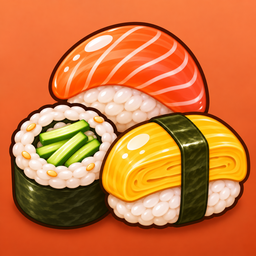
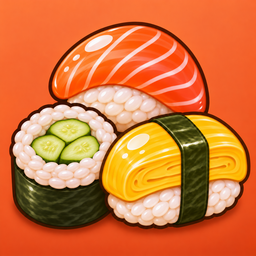
[Site] Page Sushi Trio FR/EN, presskit, Open Graph, bannière App Store

diff --git a/presskit.html b/presskit.html
@@ -1,0 +1,38 @@
+<!doctype html><html lang="fr"><head><meta charset="utf-8"><meta name="viewport" content="width=device-width,initial-scale=1">
+<title>Presskit — Sushi Trio | CODEZILLA</title>
+<meta name="description" content="Presskit de Sushi Trio (CODEZILLA) : fiche, descriptions, captures, icône et logo à télécharger, contact presse.">
+<link rel="canonical" href="https://codezillagames.com/presskit.html">
+<link rel="alternate" hreflang="fr" href="https://codezillagames.com/presskit.html">
+<link rel="alternate" hreflang="en" href="https://codezillagames.com/en/presskit.html">
+<link rel="alternate" hreflang="x-default" href="https://codezillagames.com/en/presskit.html">
+<meta property="og:type" content="website"><meta property="og:site_name" content="CODEZILLA"><meta property="og:url" content="https://codezillagames.com/presskit.html"><meta property="og:title" content="Presskit — Sushi Trio"><meta property="og:description" content="Presskit de Sushi Trio (CODEZILLA) : fiche, descriptions, captures, icône et logo à télécharger, contact presse.">
+<meta property="og:image" content="https://codezillagames.com/img/og-sushi-trio.jpg"><meta property="og:image:width" content="1200"><meta property="og:image:height" content="630">
+<meta name="twitter:card" content="summary_large_image"><meta name="twitter:title" content="Presskit — Sushi Trio"><meta name="twitter:description" content="Presskit de Sushi Trio (CODEZILLA) : fiche, descriptions, captures, icône et logo à télécharger, contact presse."><meta name="twitter:image" content="https://codezillagames.com/img/og-sushi-trio.jpg">
+<link rel="icon" href="img/sushi-trio-icone.png"><link rel="stylesheet" href="style.css"></head><body>
+<header><a class="brand" href="index.html">CODEZILLA</a><nav><a href="index.html">Accueil</a><a href="support.html">Support</a><a href="confidentialite.html">Confidentialité</a><a href="mentions-legales.html">Mentions légales</a></nav></header>
+<main>
+<p class="langs"><a href="en/presskit.html" hreflang="en" lang="en">English</a></p>
+<section class="card"><h1>Presskit — Sushi Trio</h1><h2>Fiche</h2><table class="facts"><tr><th>Jeu</th><td>Sushi Trio (App Store : « Sushi Trio - Food Sort »)</td></tr><tr><th>Éditeur</th><td>CodeZilla (CODEZILLA), Paris, France</td></tr><tr><th>Sortie</th><td>iOS : 19 novembre 2026 · Android : bientôt</td></tr><tr><th>Prix</th><td>Gratuit, avec achats intégrés facultatifs et publicités</td></tr><tr><th>Plateformes</th><td>iOS (<a href="https://apps.apple.com/fr/app/sushi-trio-food-sort/id6835079924">App Store</a>) · Android (Google Play, bientôt)</td></tr><tr><th>Genre</th><td>Casse-tête de tri (triple match)</td></tr><tr><th>Langues</th><td>français, anglais</td></tr><tr><th>Âge</th><td>4+ (App Store)</td></tr><tr><th>Site</th><td><a href="sushi-trio.html">codezillagames.com/sushi-trio.html</a></td></tr></table></section>
+<section class="card"><h2>Description courte</h2><p>Un casse-tête gourmand et relaxant : touchez les aliments, remplissez les commandes et gardez de la place dans la réserve. Servez sushis, brochettes et douceurs japonaises par trois !</p><h2>Description longue</h2><pre class="desc">Bienvenue au comptoir de Sushi Trio ! Les commandes s'enchaînent : à vous de servir les bons aliments, au bon moment.
+
+COMMENT JOUER
+• Touchez un aliment pour le servir.
+• Chaque commande attend trois aliments identiques.
+• Un aliment sans commande patiente dans la réserve : gardez de la place !
+• Servez la rangée de devant pour découvrir celle de derrière.
+
+POURQUOI VOUS ALLEZ AIMER
+• Des parties courtes, faciles à prendre en main et de plus en plus corsées.
+• De nouvelles surprises au fil des niveaux : étagères qui bougent, verrous, plats qui tombent…
+• Des boosters pour vous sortir d'un mauvais pas : marteau, baguette, mélange et d'autres encore.
+• Des pièces à chaque victoire et une série de victoires qui offre des boosters.
+• Plus de 100 sushis, brochettes et douceurs japonaises illustrés, dans l'ambiance chaleureuse d'un petit restaurant japonais.
+• Aucun compte nécessaire : votre progression reste sur votre appareil.
+
+Sushi Trio est gratuit. Il contient des publicités et des achats intégrés facultatifs. L'achat qui retire les publicités supprime les bannières et les publicités entre les niveaux ; les vidéos récompensées restent proposées, à votre choix.</pre></section>
+<section class="card"><h2>Captures (iPhone, 1320 × 2868, JPEG)</h2><p>Cliquez sur une capture pour la télécharger en pleine définition.</p><h3>En français</h3><ul class="gallery six"><li><a href="presse/sushi-trio-fr-01-accueil.jpg" download><img src="img/sushi-trio/fr-01-accueil.webp" alt="Écran d'accueil" width="440" height="956" loading="lazy">Écran d'accueil</a></li><li><a href="presse/sushi-trio-fr-02-plateau.jpg" download><img src="img/sushi-trio/fr-02-plateau.webp" alt="Un niveau" width="440" height="956" loading="lazy">Un niveau</a></li><li><a href="presse/sushi-trio-fr-03-vapeur-etageres-mobiles.jpg" download><img src="img/sushi-trio/fr-03-vapeur-etageres-mobiles.webp" alt="Vapeur et étagères mobiles" width="440" height="956" loading="lazy">Vapeur et étagères mobiles</a></li><li><a href="presse/sushi-trio-fr-04-commande-combo.jpg" download><img src="img/sushi-trio/fr-04-commande-combo.webp" alt="Commande et combo" width="440" height="956" loading="lazy">Commande et combo</a></li><li><a href="presse/sushi-trio-fr-05-booster-aimant.jpg" download><img src="img/sushi-trio/fr-05-booster-aimant.webp" alt="Booster aimant" width="440" height="956" loading="lazy">Booster aimant</a></li><li><a href="presse/sushi-trio-fr-06-victoire.jpg" download><img src="img/sushi-trio/fr-06-victoire.webp" alt="Victoire" width="440" height="956" loading="lazy">Victoire</a></li></ul><h3>En anglais</h3><ul class="gallery six"><li><a href="presse/sushi-trio-en-01-accueil.jpg" download><img src="img/sushi-trio/en-01-accueil.webp" alt="Écran d'accueil" width="440" height="956" loading="lazy">Écran d'accueil</a></li><li><a href="presse/sushi-trio-en-02-plateau.jpg" download><img src="img/sushi-trio/en-02-plateau.webp" alt="Un niveau" width="440" height="956" loading="lazy">Un niveau</a></li><li><a href="presse/sushi-trio-en-03-vapeur-etageres-mobiles.jpg" download><img src="img/sushi-trio/en-03-vapeur-etageres-mobiles.webp" alt="Vapeur et étagères mobiles" width="440" height="956" loading="lazy">Vapeur et étagères mobiles</a></li><li><a href="presse/sushi-trio-en-04-commande-combo.jpg" download><img src="img/sushi-trio/en-04-commande-combo.webp" alt="Commande et combo" width="440" height="956" loading="lazy">Commande et combo</a></li><li><a href="presse/sushi-trio-en-05-booster-aimant.jpg" download><img src="img/sushi-trio/en-05-booster-aimant.webp" alt="Booster aimant" width="440" height="956" loading="lazy">Booster aimant</a></li><li><a href="presse/sushi-trio-en-06-victoire.jpg" download><img src="img/sushi-trio/en-06-victoire.webp" alt="Victoire" width="440" height="956" loading="lazy">Victoire</a></li></ul></section>
+<section class="card"><h2>Icône et logo</h2><div class="downloads"><a href="presse/sushi-trio-icone-1024.png" download><img src="img/sushi-trio-icone.png" alt="" width="96" height="96"></a><a href="presse/sushi-trio-icone-1024.png" download>Icône 1024 × 1024 (PNG)</a></div>
+<div class="downloads"><a href="presse/sushi-trio-logo.png" download><img src="img/sushi-trio-logo.png" alt="" width="240" height="130" style="border:0"></a><a href="presse/sushi-trio-logo.png" download>Logo 800 × 432 (PNG, fond transparent)</a></div></section>
+<section class="card"><h2>Contact presse</h2><p>Reinis Grinbergs, gérant — <a href="mailto:contact@codezillagames.com">contact@codezillagames.com</a>. Les visuels de cette page peuvent être utilisés pour parler de Sushi Trio.</p></section>
+</main>
+<footer>© 2026 CodeZilla — EURL au capital de 1 000 € — RCS Paris 889 278 339 — 14 rue Bausset, 75015 Paris — <a href="mailto:contact@codezillagames.com">contact@codezillagames.com</a></footer></body></html>

diff --git a/en/presskit.html b/en/presskit.html
@@ -1,0 +1,38 @@
+<!doctype html><html lang="en"><head><meta charset="utf-8"><meta name="viewport" content="width=device-width,initial-scale=1">
+<title>Press kit — Sushi Trio | CODEZILLA</title>
+<meta name="description" content="Sushi Trio press kit (CODEZILLA): fact sheet, descriptions, screenshots, icon and logo downloads, press contact.">
+<link rel="canonical" href="https://codezillagames.com/en/presskit.html">
+<link rel="alternate" hreflang="fr" href="https://codezillagames.com/presskit.html">
+<link rel="alternate" hreflang="en" href="https://codezillagames.com/en/presskit.html">
+<link rel="alternate" hreflang="x-default" href="https://codezillagames.com/en/presskit.html">
+<meta property="og:type" content="website"><meta property="og:site_name" content="CODEZILLA"><meta property="og:url" content="https://codezillagames.com/en/presskit.html"><meta property="og:title" content="Press kit — Sushi Trio"><meta property="og:description" content="Sushi Trio press kit (CODEZILLA): fact sheet, descriptions, screenshots, icon and logo downloads, press contact.">
+<meta property="og:image" content="https://codezillagames.com/img/og-sushi-trio.jpg"><meta property="og:image:width" content="1200"><meta property="og:image:height" content="630">
+<meta name="twitter:card" content="summary_large_image"><meta name="twitter:title" content="Press kit — Sushi Trio"><meta name="twitter:description" content="Sushi Trio press kit (CODEZILLA): fact sheet, descriptions, screenshots, icon and logo downloads, press contact."><meta name="twitter:image" content="https://codezillagames.com/img/og-sushi-trio.jpg">
+<link rel="icon" href="../img/sushi-trio-icone.png"><link rel="stylesheet" href="../style.css"></head><body>
+<header><a class="brand" href="../index.html">CODEZILLA</a><nav><a href="../index.html">Home</a><a href="../support.html">Support</a><a href="../confidentialite.html#en">Privacy</a><a href="../mentions-legales.html">Legal notice</a></nav></header>
+<main>
+<p class="langs"><a href="../presskit.html" hreflang="fr" lang="fr">Français</a></p>
+<section class="card"><h1>Press kit — Sushi Trio</h1><h2>Fact sheet</h2><table class="facts"><tr><th>Game</th><td>Sushi Trio (App Store: “Sushi Trio - Food Sort”)</td></tr><tr><th>Publisher</th><td>CodeZilla (CODEZILLA), Paris, France</td></tr><tr><th>Release date</th><td>iOS: November 19, 2026 · Android: coming soon</td></tr><tr><th>Price</th><td>Free, with optional in-app purchases and ads</td></tr><tr><th>Platforms</th><td>iOS (<a href="https://apps.apple.com/us/app/sushi-trio-food-sort/id6835079924">App Store</a>) · Android (Google Play, coming soon)</td></tr><tr><th>Genre</th><td>Sorting puzzle (triple match)</td></tr><tr><th>Languages</th><td>English, French</td></tr><tr><th>Age rating</th><td>4+ (App Store)</td></tr><tr><th>Website</th><td><a href="sushi-trio.html">codezillagames.com/en/sushi-trio.html</a></td></tr></table></section>
+<section class="card"><h2>Short description</h2><p>A tasty, relaxing puzzle: tap the food, fill the orders and keep room in the holding area. Serve sushi, skewers and Japanese treats in orders of three!</p><h2>Long description</h2><pre class="desc">Welcome to the Sushi Trio counter! Orders keep coming in, and it's up to you to serve the right food at the right time.
+
+HOW TO PLAY
+• Tap a food item to serve it.
+• Each order wants three matching items.
+• An item with no order waits in the holding area: keep some room!
+• Serve the front row to reveal the one behind.
+
+WHY YOU'LL LOVE IT
+• Short levels, easy to pick up, and more and more challenging.
+• New surprises as you progress: moving shelves, locks, falling dishes and more.
+• Boosters to get you out of a tight spot: hammer, wand, shuffle and more.
+• Coins for every win and a winning streak that gives you boosters.
+• Over 100 illustrated sushi, skewers and Japanese treats, in a cozy Japanese restaurant atmosphere.
+• No account needed: your progress stays on your device.
+
+Sushi Trio is free to play. It contains ads and optional in-app purchases. The ad-removal purchase removes banners and ads between levels; rewarded videos are still offered, only if you choose to watch them.</pre></section>
+<section class="card"><h2>Screenshots (iPhone, 1320 × 2868, JPEG)</h2><p>Click a screenshot to download it at full resolution.</p><h3>English</h3><ul class="gallery six"><li><a href="../presse/sushi-trio-en-01-accueil.jpg" download><img src="../img/sushi-trio/en-01-accueil.webp" alt="Home screen" width="440" height="956" loading="lazy">Home screen</a></li><li><a href="../presse/sushi-trio-en-02-plateau.jpg" download><img src="../img/sushi-trio/en-02-plateau.webp" alt="A level" width="440" height="956" loading="lazy">A level</a></li><li><a href="../presse/sushi-trio-en-03-vapeur-etageres-mobiles.jpg" download><img src="../img/sushi-trio/en-03-vapeur-etageres-mobiles.webp" alt="Steam and moving shelves" width="440" height="956" loading="lazy">Steam and moving shelves</a></li><li><a href="../presse/sushi-trio-en-04-commande-combo.jpg" download><img src="../img/sushi-trio/en-04-commande-combo.webp" alt="Order and combo" width="440" height="956" loading="lazy">Order and combo</a></li><li><a href="../presse/sushi-trio-en-05-booster-aimant.jpg" download><img src="../img/sushi-trio/en-05-booster-aimant.webp" alt="Magnet booster" width="440" height="956" loading="lazy">Magnet booster</a></li><li><a href="../presse/sushi-trio-en-06-victoire.jpg" download><img src="../img/sushi-trio/en-06-victoire.webp" alt="Victory" width="440" height="956" loading="lazy">Victory</a></li></ul><h3>French</h3><ul class="gallery six"><li><a href="../presse/sushi-trio-fr-01-accueil.jpg" download><img src="../img/sushi-trio/fr-01-accueil.webp" alt="Home screen" width="440" height="956" loading="lazy">Home screen</a></li><li><a href="../presse/sushi-trio-fr-02-plateau.jpg" download><img src="../img/sushi-trio/fr-02-plateau.webp" alt="A level" width="440" height="956" loading="lazy">A level</a></li><li><a href="../presse/sushi-trio-fr-03-vapeur-etageres-mobiles.jpg" download><img src="../img/sushi-trio/fr-03-vapeur-etageres-mobiles.webp" alt="Steam and moving shelves" width="440" height="956" loading="lazy">Steam and moving shelves</a></li><li><a href="../presse/sushi-trio-fr-04-commande-combo.jpg" download><img src="../img/sushi-trio/fr-04-commande-combo.webp" alt="Order and combo" width="440" height="956" loading="lazy">Order and combo</a></li><li><a href="../presse/sushi-trio-fr-05-booster-aimant.jpg" download><img src="../img/sushi-trio/fr-05-booster-aimant.webp" alt="Magnet booster" width="440" height="956" loading="lazy">Magnet booster</a></li><li><a href="../presse/sushi-trio-fr-06-victoire.jpg" download><img src="../img/sushi-trio/fr-06-victoire.webp" alt="Victory" width="440" height="956" loading="lazy">Victory</a></li></ul></section>
+<section class="card"><h2>Icon and logo</h2><div class="downloads"><a href="../presse/sushi-trio-icone-1024.png" download><img src="../img/sushi-trio-icone.png" alt="" width="96" height="96"></a><a href="../presse/sushi-trio-icone-1024.png" download>Icon 1024 × 1024 (PNG)</a></div>
+<div class="downloads"><a href="../presse/sushi-trio-logo.png" download><img src="../img/sushi-trio-logo.png" alt="" width="240" height="130" style="border:0"></a><a href="../presse/sushi-trio-logo.png" download>Logo 800 × 432 (PNG, transparent background)</a></div></section>
+<section class="card"><h2>Press contact</h2><p>Reinis Grinbergs, manager — <a href="mailto:contact@codezillagames.com">contact@codezillagames.com</a>. The visuals on this page may be used to write about Sushi Trio.</p></section>
+</main>
+<footer>© 2026 CodeZilla — EURL (single-member LLC), share capital €1,000 — RCS Paris 889 278 339 — 14 rue Bausset, 75015 Paris, France — <a href="mailto:contact@codezillagames.com">contact@codezillagames.com</a></footer></body></html>

diff --git a/sushi-trio.html b/sushi-trio.html
@@ -1,0 +1,36 @@
+<!doctype html><html lang="fr"><head><meta charset="utf-8"><meta name="viewport" content="width=device-width,initial-scale=1">
+<title>Sushi Trio — jeu de tri de sushis sur iPhone | CODEZILLA</title>
+<meta name="description" content="Sushi Trio : un casse-tête gourmand et relaxant. Servez sushis, brochettes et douceurs japonaises par trois. Gratuit sur l'App Store.">
+<link rel="canonical" href="https://codezillagames.com/sushi-trio.html">
+<link rel="alternate" hreflang="fr" href="https://codezillagames.com/sushi-trio.html">
+<link rel="alternate" hreflang="en" href="https://codezillagames.com/en/sushi-trio.html">
+<link rel="alternate" hreflang="x-default" href="https://codezillagames.com/en/sushi-trio.html">
+<meta name="apple-itunes-app" content="app-id=6835079924">
+<meta property="og:type" content="website"><meta property="og:site_name" content="CODEZILLA"><meta property="og:locale" content="fr_FR"><meta property="og:locale:alternate" content="en_US">
+<meta property="og:url" content="https://codezillagames.com/sushi-trio.html">
+<meta property="og:title" content="Sushi Trio — jeu de tri de sushis">
+<meta property="og:description" content="Un casse-tête gourmand et relaxant : servez sushis, brochettes et douceurs japonaises par trois. Gratuit sur l'App Store.">
+<meta property="og:image" content="https://codezillagames.com/img/og-sushi-trio.jpg"><meta property="og:image:width" content="1200"><meta property="og:image:height" content="630"><meta property="og:image:alt" content="Logo Sushi Trio dans un petit restaurant japonais">
+<meta name="twitter:card" content="summary_large_image"><meta name="twitter:title" content="Sushi Trio — jeu de tri de sushis"><meta name="twitter:description" content="Un casse-tête gourmand et relaxant : servez sushis, brochettes et douceurs japonaises par trois."><meta name="twitter:image" content="https://codezillagames.com/img/og-sushi-trio.jpg">
+<link rel="icon" href="img/sushi-trio-icone.png"><link rel="stylesheet" href="style.css"></head><body>
+<header><a class="brand" href="index.html">CODEZILLA</a><nav><a href="index.html">Accueil</a><a href="support.html">Support</a><a href="confidentialite.html">Confidentialité</a><a href="mentions-legales.html">Mentions légales</a></nav></header>
+<main>
+<p class="langs"><a href="en/sushi-trio.html" hreflang="en" lang="en">English</a></p>
+<section class="card hero"><img class="icon" src="img/sushi-trio-icone.png" alt="Icône de Sushi Trio" width="96" height="96"><img class="logo" src="img/sushi-trio-logo.png" alt="Sushi Trio" width="800" height="432"><h1>Sushi Trio</h1>
+<p class="lead">Bienvenue au comptoir ! Les commandes s'enchaînent : touchez les aliments, servez-les par trois et gardez de la place dans la réserve. Un casse-tête gourmand et relaxant, dans l'ambiance chaleureuse d'un petit restaurant japonais.</p>
+<p class="stores"><a class="store" href="https://apps.apple.com/fr/app/sushi-trio-food-sort/id6835079924">Télécharger sur l'App Store</a><span class="soon">Google Play : bientôt</span></p></section>
+<section class="card"><h2>En images</h2><ul class="gallery">
+<li><img src="img/sushi-trio/fr-01-accueil.webp" alt="Écran d'accueil de Sushi Trio" width="440" height="956" loading="lazy"></li>
+<li><img src="img/sushi-trio/fr-02-plateau.webp" alt="Un niveau : étagères garnies de sushis et commandes en haut de l'écran" width="440" height="956" loading="lazy"></li>
+<li><img src="img/sushi-trio/fr-04-commande-combo.webp" alt="Commande servie avec un combo ×2" width="440" height="956" loading="lazy"></li>
+<li><img src="img/sushi-trio/fr-06-victoire.webp" alt="Écran de victoire avec un nouvel aliment débloqué" width="440" height="956" loading="lazy"></li>
+</ul></section>
+<section class="card"><h2>Comment jouer</h2><ul>
+<li>Touchez un aliment pour le servir : chaque commande attend trois aliments identiques.</li>
+<li>Un aliment sans commande patiente dans la réserve : gardez de la place !</li>
+<li>Servez la rangée de devant pour découvrir celle de derrière.</li>
+<li>Étagères qui bougent, verrous, plats qui tombent : de nouvelles surprises au fil des niveaux, et des boosters pour vous sortir d'un mauvais pas.</li>
+</ul><p>Sushi Trio est gratuit. Il contient des publicités et des achats intégrés facultatifs. Aucun compte nécessaire : votre progression reste sur votre appareil.</p></section>
+<section class="card"><h2>Infos</h2><p><a href="support.html">Support</a> · <a href="confidentialite.html">Politique de confidentialité</a> · <a href="presskit.html">Presskit</a> · Contact : <a href="mailto:contact@codezillagames.com">contact@codezillagames.com</a></p></section>
+</main>
+<footer>© 2026 CodeZilla — EURL au capital de 1 000 € — RCS Paris 889 278 339 — 14 rue Bausset, 75015 Paris — <a href="mailto:contact@codezillagames.com">contact@codezillagames.com</a></footer></body></html>

diff --git a/en/sushi-trio.html b/en/sushi-trio.html
@@ -1,0 +1,36 @@
+<!doctype html><html lang="en"><head><meta charset="utf-8"><meta name="viewport" content="width=device-width,initial-scale=1">
+<title>Sushi Trio — cozy food sorting puzzle for iPhone | CODEZILLA</title>
+<meta name="description" content="Sushi Trio: a tasty, relaxing puzzle. Serve sushi, skewers and Japanese treats in orders of three. Free on the App Store.">
+<link rel="canonical" href="https://codezillagames.com/en/sushi-trio.html">
+<link rel="alternate" hreflang="fr" href="https://codezillagames.com/sushi-trio.html">
+<link rel="alternate" hreflang="en" href="https://codezillagames.com/en/sushi-trio.html">
+<link rel="alternate" hreflang="x-default" href="https://codezillagames.com/en/sushi-trio.html">
+<meta name="apple-itunes-app" content="app-id=6835079924">
+<meta property="og:type" content="website"><meta property="og:site_name" content="CODEZILLA"><meta property="og:locale" content="en_US"><meta property="og:locale:alternate" content="fr_FR">
+<meta property="og:url" content="https://codezillagames.com/en/sushi-trio.html">
+<meta property="og:title" content="Sushi Trio — cozy food sorting puzzle">
+<meta property="og:description" content="A tasty, relaxing puzzle: serve sushi, skewers and Japanese treats in orders of three. Free on the App Store.">
+<meta property="og:image" content="https://codezillagames.com/img/og-sushi-trio.jpg"><meta property="og:image:width" content="1200"><meta property="og:image:height" content="630"><meta property="og:image:alt" content="Sushi Trio logo in a small Japanese restaurant">
+<meta name="twitter:card" content="summary_large_image"><meta name="twitter:title" content="Sushi Trio — cozy food sorting puzzle"><meta name="twitter:description" content="A tasty, relaxing puzzle: serve sushi, skewers and Japanese treats in orders of three."><meta name="twitter:image" content="https://codezillagames.com/img/og-sushi-trio.jpg">
+<link rel="icon" href="../img/sushi-trio-icone.png"><link rel="stylesheet" href="../style.css"></head><body>
+<header><a class="brand" href="../index.html">CODEZILLA</a><nav><a href="../index.html">Home</a><a href="../support.html">Support</a><a href="../confidentialite.html#en">Privacy</a><a href="../mentions-legales.html">Legal notice</a></nav></header>
+<main>
+<p class="langs"><a href="../sushi-trio.html" hreflang="fr" lang="fr">Français</a></p>
+<section class="card hero"><img class="icon" src="../img/sushi-trio-icone.png" alt="Sushi Trio icon" width="96" height="96"><img class="logo" src="../img/sushi-trio-logo.png" alt="Sushi Trio" width="800" height="432"><h1>Sushi Trio</h1>
+<p class="lead">Welcome to the counter! Orders keep coming in: tap the food, serve it in threes and keep room in the holding area. A tasty, relaxing puzzle in the cozy atmosphere of a small Japanese restaurant.</p>
+<p class="stores"><a class="store" href="https://apps.apple.com/us/app/sushi-trio-food-sort/id6835079924">Download on the App Store</a><span class="soon">Google Play: coming soon</span></p></section>
+<section class="card"><h2>Screenshots</h2><ul class="gallery">
+<li><img src="../img/sushi-trio/en-01-accueil.webp" alt="Sushi Trio home screen" width="440" height="956" loading="lazy"></li>
+<li><img src="../img/sushi-trio/en-02-plateau.webp" alt="A level: shelves full of sushi, orders at the top of the screen" width="440" height="956" loading="lazy"></li>
+<li><img src="../img/sushi-trio/en-04-commande-combo.webp" alt="An order served with a ×2 combo" width="440" height="956" loading="lazy"></li>
+<li><img src="../img/sushi-trio/en-06-victoire.webp" alt="Victory screen with a new food unlocked" width="440" height="956" loading="lazy"></li>
+</ul></section>
+<section class="card"><h2>How to play</h2><ul>
+<li>Tap a food item to serve it: each order wants three matching items.</li>
+<li>An item with no order waits in the holding area: keep some room!</li>
+<li>Serve the front row to reveal the one behind.</li>
+<li>Moving shelves, locks, falling dishes: new surprises as you progress, and boosters to get you out of a tight spot.</li>
+</ul><p>Sushi Trio is free to play. It contains ads and optional in-app purchases. No account needed: your progress stays on your device.</p></section>
+<section class="card"><h2>Info</h2><p><a href="../support.html">Support</a> · <a href="../confidentialite.html#en">Privacy policy</a> · <a href="presskit.html">Press kit</a> · Contact: <a href="mailto:contact@codezillagames.com">contact@codezillagames.com</a></p></section>
+</main>
+<footer>© 2026 CodeZilla — EURL (single-member LLC), share capital €1,000 — RCS Paris 889 278 339 — 14 rue Bausset, 75015 Paris, France — <a href="mailto:contact@codezillagames.com">contact@codezillagames.com</a></footer></body></html>

diff --git a/index.html b/index.html
@@ -1,8 +1,12 @@
-<!doctype html><html lang="fr"><head><meta charset="utf-8"><meta name="viewport" content="width=device-width,initial-scale=1"><title>CODEZILLA — Sushi Trio</title><meta name="description" content="CODEZILLA, studio de jeux mobiles, éditeur de Sushi Trio."><link rel="icon" href="img/sushi-trio-icone.png"><link rel="stylesheet" href="style.css"></head><body>
+<!doctype html><html lang="fr"><head><meta charset="utf-8"><meta name="viewport" content="width=device-width,initial-scale=1"><title>CODEZILLA — Sushi Trio</title><meta name="description" content="CODEZILLA, studio de jeux mobiles, éditeur de Sushi Trio.">
+<link rel="canonical" href="https://codezillagames.com/">
+<meta name="apple-itunes-app" content="app-id=6835079924">
+<meta property="og:type" content="website"><meta property="og:site_name" content="CODEZILLA"><meta property="og:locale" content="fr_FR"><meta property="og:url" content="https://codezillagames.com/"><meta property="og:title" content="CODEZILLA — Sushi Trio"><meta property="og:description" content="CODEZILLA, studio de jeux mobiles, éditeur de Sushi Trio : un casse-tête gourmand, gratuit sur l'App Store."><meta property="og:image" content="https://codezillagames.com/img/og-sushi-trio.jpg"><meta property="og:image:width" content="1200"><meta property="og:image:height" content="630">
+<meta name="twitter:card" content="summary_large_image"><meta name="twitter:title" content="CODEZILLA — Sushi Trio"><meta name="twitter:description" content="Sushi Trio, un casse-tête gourmand, gratuit sur l'App Store."><meta name="twitter:image" content="https://codezillagames.com/img/og-sushi-trio.jpg"><link rel="icon" href="img/sushi-trio-icone.png"><link rel="stylesheet" href="style.css"></head><body>
 <header><a class="brand" href="index.html">CODEZILLA</a><nav><a href="index.html">Accueil</a><a href="support.html">Support</a><a href="confidentialite.html">Confidentialité</a><a href="mentions-legales.html">Mentions légales</a></nav></header>
 <main>
-<section class="card hero"><img class="icon" src="img/sushi-trio-icone.png" alt="Icône de Sushi Trio"><img class="logo" src="img/sushi-trio-logo.png" alt="Sushi Trio"><h1>Sushi Trio</h1><p>Un jeu de tri de sushis et de douceurs japonaises, chaleureux et rapide : servez les commandes en rangeant les aliments par trois.</p><p class="stores"><a class="store" href="https://apps.apple.com/fr/app/sushi-trio-food-sort/id6835079924">Télécharger sur l'App Store</a></p><p>Bientôt sur Google Play.</p></section>
+<section class="card hero"><img class="icon" src="img/sushi-trio-icone.png" alt="Icône de Sushi Trio"><img class="logo" src="img/sushi-trio-logo.png" alt="Sushi Trio"><h1>Sushi Trio</h1><p>Un jeu de tri de sushis et de douceurs japonaises, chaleureux et rapide : servez les commandes en rangeant les aliments par trois.</p><p class="stores"><a class="store" href="https://apps.apple.com/fr/app/sushi-trio-food-sort/id6835079924">Télécharger sur l'App Store</a><span class="soon">Google Play : bientôt</span></p><p><a href="sushi-trio.html">Découvrir le jeu</a> · <a href="presskit.html">Presskit</a></p></section>
 <section class="card"><h2>À propos de CODEZILLA</h2><p>CODEZILLA est une société française qui conçoit et publie des jeux mobiles. Siège : 14 rue Bausset, 75015 Paris.</p><p>Contact : <a href="mailto:contact@codezillagames.com">contact@codezillagames.com</a></p></section>
-<section class="card" lang="en"><h2>About</h2><p>CODEZILLA is a French company that designs and publishes mobile games, including <em>Sushi Trio</em>, <a href="https://apps.apple.com/us/app/sushi-trio-food-sort/id6835079924">available on the App Store</a> (Google Play coming soon). Contact: <a href="mailto:contact@codezillagames.com">contact@codezillagames.com</a>.</p></section>
+<section class="card" lang="en"><h2>About</h2><p>CODEZILLA is a French company that designs and publishes mobile games, including <em>Sushi Trio</em>, <a href="https://apps.apple.com/us/app/sushi-trio-food-sort/id6835079924">available on the App Store</a> (Google Play coming soon). <a href="en/sushi-trio.html" hreflang="en">Game page</a> · <a href="en/presskit.html" hreflang="en">Press kit</a>. Contact: <a href="mailto:contact@codezillagames.com">contact@codezillagames.com</a>.</p></section>
 </main>
 <footer>© 2026 CodeZilla — EURL au capital de 1 000 € — RCS Paris 889 278 339 — 14 rue Bausset, 75015 Paris — <a href="mailto:contact@codezillagames.com">contact@codezillagames.com</a></footer></body></html>

diff --git a/style.css b/style.css
@@ -3,8 +3,15 @@
 header{display:flex;flex-wrap:wrap;gap:16px;align-items:center;justify-content:space-between;padding:16px 24px;max-width:960px;margin:auto}
 header a.brand{font-weight:800;font-size:20px;color:var(--ink);text-decoration:none}nav a{margin-left:16px;color:var(--muted);text-decoration:none}nav a:hover{color:var(--accent)}
 main{max-width:960px;margin:auto;padding:0 24px 48px}.card{background:var(--card);border:2px solid #F2C58E;border-radius:20px;padding:24px;margin:16px 0}
-h1,h2{color:var(--ink);line-height:1.2}h1{font-size:32px}a{color:var(--accent)}.hero{text-align:center}.hero img.logo{max-width:420px;width:100%}
+h1,h2{color:var(--ink);line-height:1.2}h1{font-size:32px}a{color:var(--accent)}.hero{text-align:center}.hero img.logo{max-width:420px;width:100%;height:auto}
 .hero img.icon{width:96px;height:96px;border-radius:22px}footer{text-align:center;color:var(--muted);font-size:14px;padding:24px}
 .stores{margin:20px 0 4px}a.store{display:inline-block;background:var(--ink);color:#FFF8E8;font-weight:700;padding:12px 22px;border-radius:14px;text-decoration:none}a.store:hover{background:var(--accent)}
 .todo{background:#ffe1d6;padding:0 4px;border-radius:4px}
 @media (max-width:600px){nav a{margin-left:10px}h1{font-size:26px}}
+.langs{text-align:right;margin:0 0 -4px;font-size:14px}.lead{font-size:18px;max-width:640px;margin:0 auto}
+.stores{display:flex;flex-wrap:wrap;gap:12px;justify-content:center;align-items:center}.soon{display:inline-block;border:2px dashed #D9B48A;color:var(--muted);font-weight:700;padding:10px 20px;border-radius:14px}
+.gallery{display:grid;grid-template-columns:repeat(4,1fr);gap:12px;margin:16px 0 0;padding:0;list-style:none}.gallery img{width:100%;height:auto;display:block;border-radius:14px;border:2px solid #F2C58E;background:#fff}
+.gallery.six{grid-template-columns:repeat(6,1fr)}.gallery a{text-decoration:none;font-size:13px;color:var(--muted)}
+table.facts{border-collapse:collapse;width:100%;table-layout:fixed}table.facts td{overflow-wrap:anywhere}table.facts th,table.facts td{text-align:left;vertical-align:top;padding:8px 10px;border-bottom:1px solid #F2C58E}table.facts th{width:34%;color:var(--muted);font-weight:600}
+.downloads{display:flex;flex-wrap:wrap;gap:16px;align-items:center}.downloads img{border-radius:18px;border:2px solid #F2C58E}pre.desc{white-space:pre-wrap;font:inherit;margin:0}
+@media (max-width:600px){.gallery{grid-template-columns:repeat(2,1fr)}.gallery.six{grid-template-columns:repeat(3,1fr)}table.facts th{width:36%}table.facts th,table.facts td{padding:8px 6px}.card{padding:18px}}
